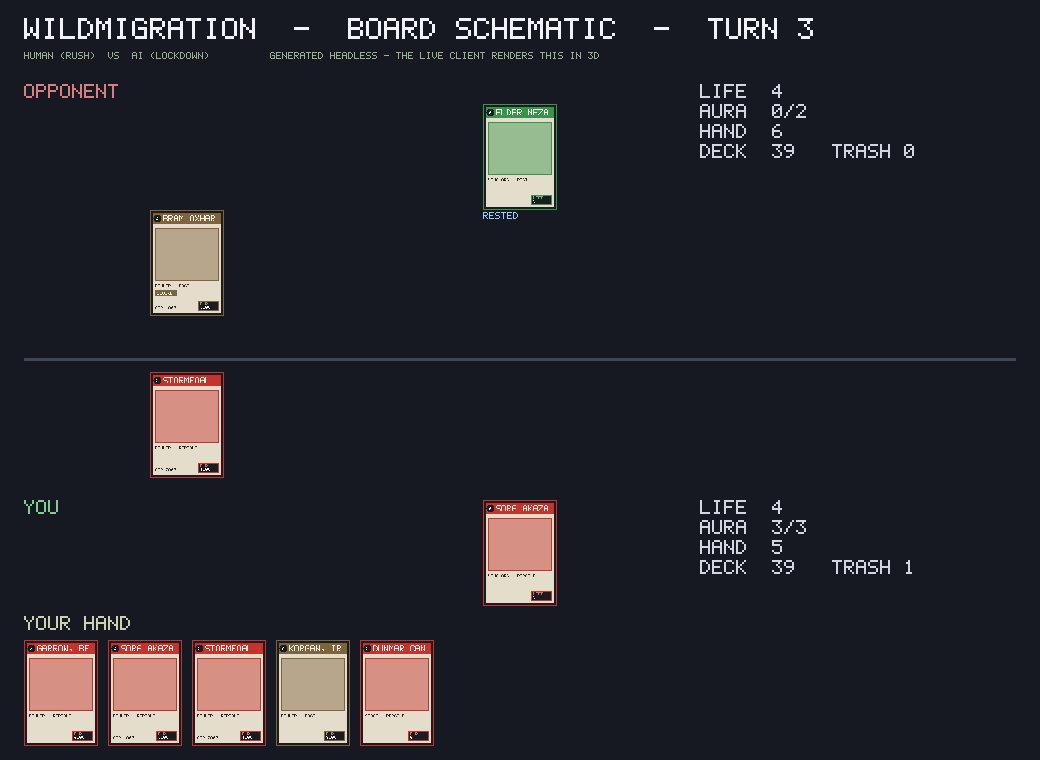
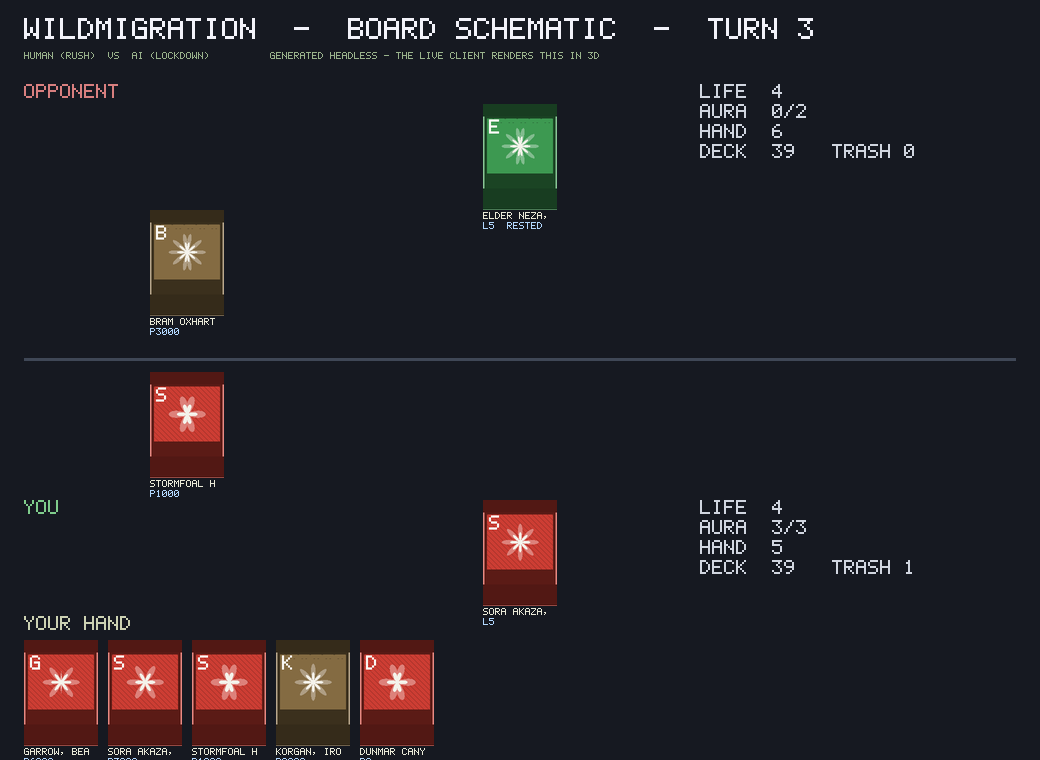
client: readability smoke tests + SCREENS human checklist (Brief 10)
Verification for the readability & rendering pass:

- tests/unit/test_readability_smoke.gd — 9 headless checks: CardText effect/
  keyword synthesis, Card Inspector data binding + live hover-swap, placeholder
  art determinism (same id -> identical bytes; different -> different), and that
  the creature-sprite fallback is the per-id sigil (not the shared diamond)
  while the two real-art cards keep their art. Suite now 155/155 green.
- card_inspector — hovering always live-swaps the shown card while open (pin only
  keeps it open on hover-out); added inspected_text()/meta_text() getters.
- gen_screens — schematic now composites the deterministic PlaceholderArt per-id
  identities with name + power/life labels, so it reflects that every card reads
  differently; regenerated docs/screens/board_schematic.png.
- SCREENS.md — inspector controls, headless-vs-GPU caveat, and a 10-item HUMAN
  CHECKLIST for Tony (the Definition of Done: he runs it on his machine and
  reports pass/fail).
- README — test count 139 -> 155 with the client suites noted.

Engine untouched.

diff --git a/SCREENS.md b/SCREENS.md
@@ -13,20 +13,28 @@ presentation beats. No rules live in `client/`.
 
 > **Why a schematic and not a framebuffer grab?** This repo runs under
 > `godot --headless`, whose dummy video driver cannot render a 3D framebuffer to
-> disk. The capture above is therefore generated *from the same Image tools the
-> live client renders with* (`CardFrame` + `PixelFont`) by playing a real
-> scripted game to a mid-game state and drawing the resulting **public** board.
-> On a machine with a GPU the identical state is drawn in 3D — Sprite3D creature
-> billboards on an angled table, the same zones, the same counts. Regenerate it
-> any time with:
+> disk. The capture above is generated *from the same Image tools the live client
+> renders with* — now using `PlaceholderArt` (the new deterministic per-id card
+> identity) — by playing a real scripted game to a mid-game state and drawing the
+> resulting **public** board. On a machine with a GPU the identical state is drawn
+> in 3D: creature billboards on an angled, lit table, real-font card frames, the
+> aura rack, zone plaques. Regenerate it any time with:
 >
 > ```bash
 > godot --headless -s tools/gen_screens.gd     # -> docs/screens/board_schematic.png
 > ```
 
-The capture shows both seats: each Vanguard, the Banner row, the Stage slot, and
-the Life / Aura / Hand / Deck / Trash counts, plus the human hand fanned along
-the bottom. `RESTED` / `FROZEN` tags sit under any exhausted or frozen unit.
+The capture shows both seats: each Vanguard, the Banner row, the Stage slot, the
+Life / Aura / Hand / Deck / Trash counts, and the human hand. Note that **every
+card now has a distinct colour + sigil + initial** (Redgale red, Bulwark/Pact
+gold, Runner green…), with its name and power/life printed — no two cards look
+alike. The two example cards (Stormfoal, Cull-Beast) keep their real art.
+
+> **Headless caveat for reviewers.** The schematic is a faithful 2D projection of
+> public state, but it is **not** the 3D scene. The camera framing, lighting,
+> shadows, glow/vignette, table material, Label3D card text, and the hover
+> **Card Inspector** only exist on a real GPU. That is exactly why the acceptance
+> gate for this pass is the **Human Checklist** below, run on Tony's machine.
 
 ---
 
@@ -46,6 +54,7 @@ godot                      # main scene is client/main.tscn
 
 | Action | Input |
 | --- | --- |
+| **Read any card** | **Hover ~0.3s → Card Inspector (right side); click a card to pin it; Esc to close** |
 | Play a card | Click a lit hand card (auto-slots; dimmed = unaffordable/no slot) |
 | Pick an attacker | Click one of your units (a green ring appears) |
 | Attack | Click a highlighted (red-ring) enemy unit / Vanguard |
@@ -53,6 +62,13 @@ godot                      # main scene is client/main.tscn
 | Activate an ability | `Activate VG` / `Activate Stage` |
 | Speed / skip animations | `Speed 1x↔2x`, `Skip` |
 | End your turn | `End Turn` |
+
+The **Card Inspector** shows the full card: name, cost, colours, tribe,
+keywords, complete effect text (synthesised from the structured data by
+`CardText`), and flavour. It works **during prompts too**, so you can hover the
+attacking creature while deciding whether to spend counters. Whenever an action
+is illegal, the reason (e.g. *"can't attack: exhausted"*) floats **at the card**,
+not only in the corner status banner.
 
 **Prompts** appear as center panels when it's your decision:
 - **Mulligan** — keep your opening hand or redraw once.
@@ -106,5 +122,43 @@ They verify, headless:
 - the full client stack (BoardView + Hud) plays **turn 1** — mulligan, play,
   attack, pass — driven through the board's own click handlers, with no errors.
 
+**Brief 10 readability smoke** (`test_readability_smoke.gd`) additionally checks:
+- `CardText` synthesises correct effect text (e.g. *"On Play (2 Aura): KO an
+  enemy Banner with 5000 power or less"*) and spells out keywords;
+- the **Card Inspector** binds a pinned card's data and live-swaps on hover;
+- **placeholder art is deterministic** — same id → identical bytes, different ids
+  → different art — and the creature-sprite fallback is the per-id sigil, **not**
+  the shared magenta diamond, while the two real-art cards keep their art.
+
 **Engine untouched:** all pre-existing engine tests still pass — the full suite
-is **146/146 green** (139 engine + 7 client).
+is **155/155 green** (139 engine + 16 client).
+
+---
+
+## Human Checklist — for Tony (the Definition of Done for Brief 10)
+
+A human has eyes now, so the acceptance gate is you, on your machine (RTX 3050 /
+1080p target). Launch with `godot` (main scene `client/main.tscn`), start a match,
+and report **pass/fail per item**. Suggested opponent: **Neza (lockdown)** or
+**Bram (refresh_tempo)** for a busy board.
+
+| # | Check | Pass? |
+|---|-------|:-----:|
+| 1 | From your hand, hover **Ragnir, Thunder-Maned** and read its full effect text in the inspector without squinting ("On Play (2 Aura): KO an enemy Banner with 5000 power or less"). | ☐ |
+| 2 | Read a **long card name** in full on the frame (it wraps / shrinks — nothing is cut off with "…"). | ☐ |
+| 3 | **Identify every creature on the board without clicking** — colour + sigil + name make each one distinct (no field of identical diamonds). | ☐ |
+| 4 | **Find both players' Aura totals in under a second** — the two racks (bright = refreshed, dim = exhausted, ice-blue = frozen) each show `AURA n/total`. | ☐ |
+| 5 | Hover an enemy Banner **during a defence prompt** and read it while the prompt is still open (deciding counters). | ☐ |
+| 6 | **Click a card to pin** the inspector, move the mouse away, confirm it stays; press **Esc** to close. | ☐ |
+| 7 | Try to attack with a **rested/summoning-sick** unit and see the reason (*"can't attack: exhausted / summoning sick"*) float **at that unit**. | ☐ |
+| 8 | Confirm the **turn banner** is large and colour-coded (green on your turn, red on the AI's). | ☐ |
+| 9 | Confirm the board **reads as a lit place**: warm/cool lighting, soft shadows under creatures, carved slot inlays, dark-wood table, gentle vignette — legible first, moody second. | ☐ |
+| 10 | Confirm each **creature billboard sits centred ABOVE its slot** (not offset to the side), and that **Stormfoal Hatchling / Cull-Beast 01 show their real art** while everything else shows its placeholder sigil. | ☐ |
+
+Bonus perf check: with a full board + several animations, does it stay smooth at
+1080p on the 3050? Note any hitches (card-frame build, glow, shadows) so they can
+be tuned.
+
+> Reminder: items 1–2 and 5–9 are **only observable on a real GPU** — the headless
+> CI can prove the data and wiring are correct (155/155 tests) but not that the
+> pixels look right. That's this checklist's job.

diff --git a/README.md b/README.md
@@ -80,7 +80,10 @@ wildmigration/
 godot --headless -s addons/gut/gut_cmdln.gd -gdir=res://tests/unit -ginclude_subdirs=true -gexit
 ```
 
-All suites report **All tests passed!** (139 tests). Coverage:
+All suites report **All tests passed!** (155 tests: 139 engine + 16 client).
+The client suites (`test_client_smoke.gd`, `test_readability_smoke.gd`) cover the
+Phase 3 presentation layer and the Brief 10 readability pass (card-text
+synthesis, inspector data binding, deterministic placeholder art). Coverage:
 
 | Suite | Covers |
 |-------|--------|
